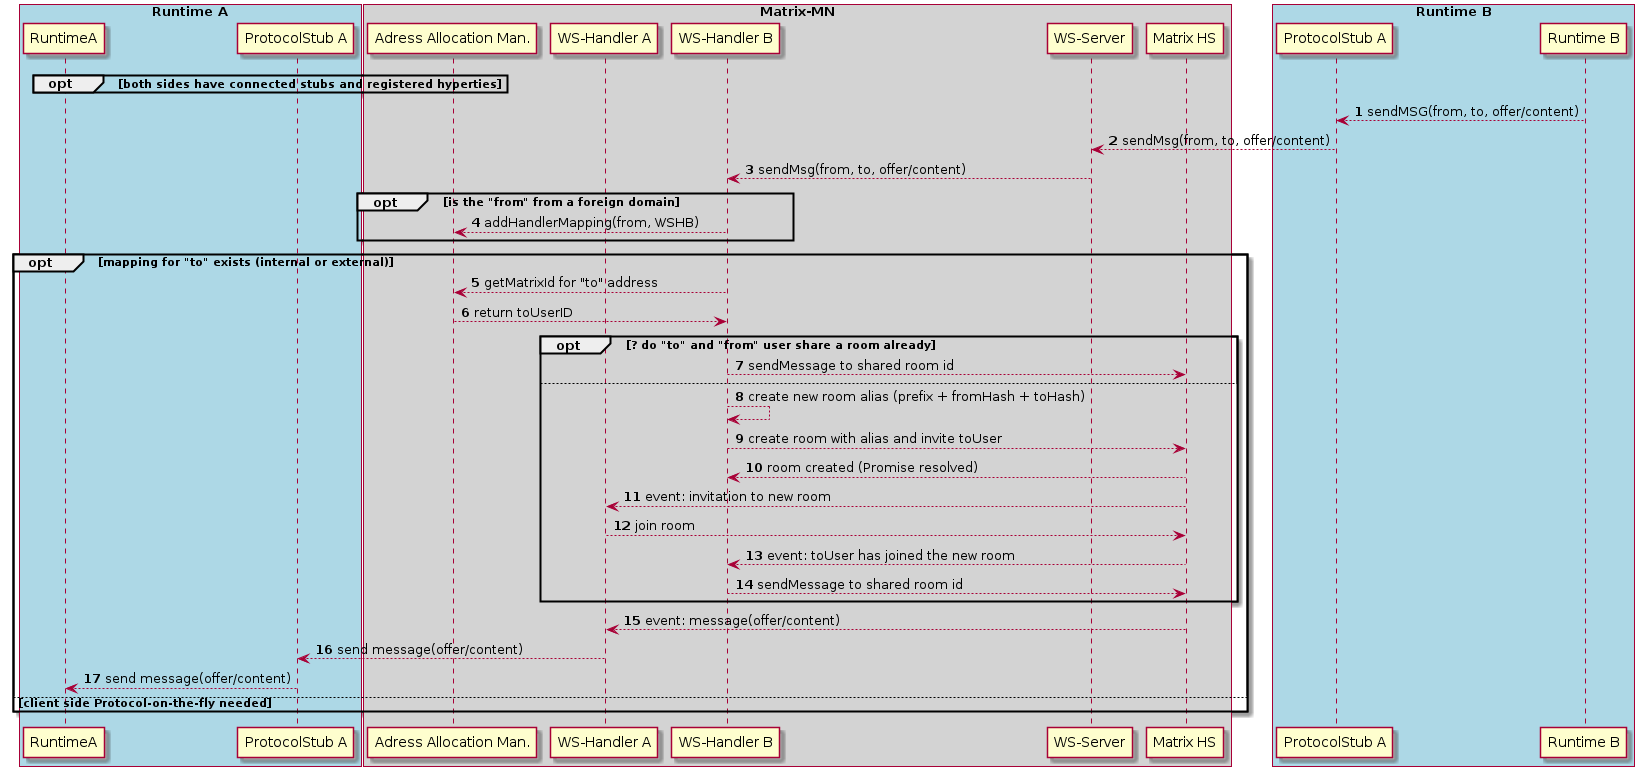
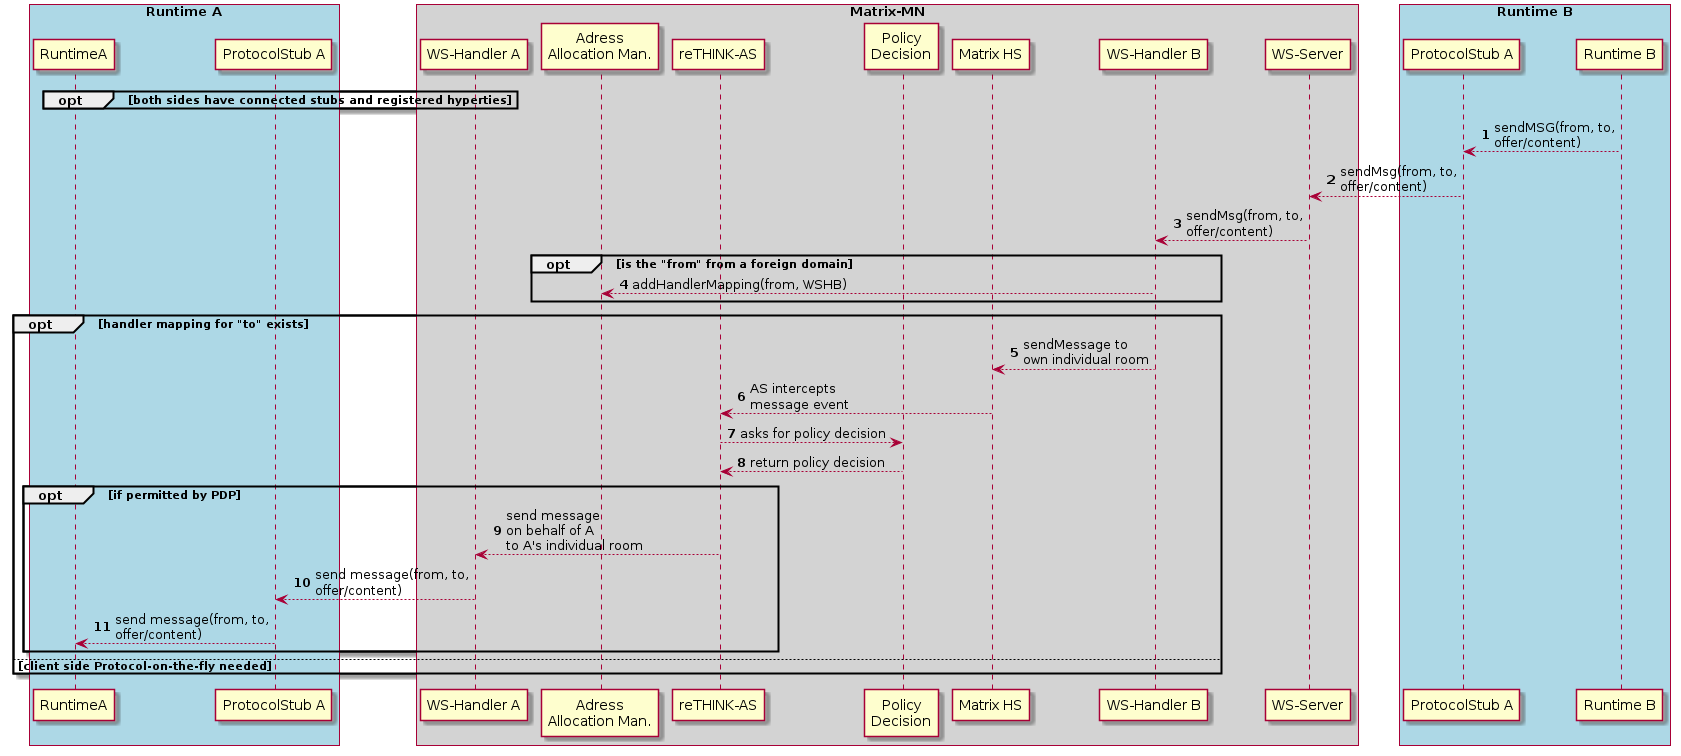
bugfixes: - fixed multiple registration of timeline eventlisteners - fixed failed removal of handler mappings
UML:
- updated diagrams with simplified routing logic

Changed region(s): [[0.0, 0.0, 1.0, 1.0]]

diff --git a/src/mn/bridge/RethinkBridge.js b/src/mn/bridge/RethinkBridge.js
@@ -38,33 +38,40 @@ export default class RethinkBridge {
    * creates a transient UserId from the given hash,
    * @return Promise with created Intent
    **/
-  getInitializedClient(userId) {
+  getInitializedClient(userId, timelineHandler) {
     // console.log("++++ _getClient for userId %s ", userId)
 
     return new Promise((resolve, reject) => {
 
-      let client = this._clients.get(userId);
-      if (client) {
-        // console.log("++++ Client already exists --> returning directly");
-        resolve(client);
-      } else {
-        // create client via clientFactory
-        console.log("++++ creating new Client for %s", userId);
-        let client = this.bridge._clientFactory.getClientAs(userId);
-        this._clients.set(userId, client);
+      try {
+        let client = this._clients.get(userId);
+        if (client) {
+          console.log("++++ Client already exists --> returning directly");
+          resolve(client);
+        } else {
+          // create client via clientFactory
+          console.log("++++ creating new Client for %s", userId);
+          let client = this.bridge._clientFactory.getClientAs(userId);
+          this._clients.set(userId, client);
 
-        client.on('syncComplete', () => {
-          console.log("+++++ client SYNC COMPLETE for %s ", userId);
+          client.on('syncComplete', () => {
+            console.log("+++++ client SYNC COMPLETE for %s ", userId);
 
-          this._setupIndividualRoom(client, userId).then((roomId) => {
-            console.log("got individual room with id %s ", roomId );
-            client.roomId = roomId;
-            resolve(client);
+            this._setupIndividualRoom(client, userId).then((roomId) => {
+              console.log("got individual room with id %s ---> installing timeline event handler ", roomId );
+              client.on('Room.timeline', timelineHandler);
+
+              client.roomId = roomId;
+              resolve(client);
+            });
           });
-        });
 
-        // console.log("+++++ starting Client for user %s", userId);
-        client.startClient();
+          // console.log("+++++ starting Client for user %s", userId);
+          client.startClient(0);
+        }
+      }
+      catch (x) {
+        console.log("ERROR: " + x);
       }
     });
   }
@@ -139,7 +146,7 @@ export default class RethinkBridge {
           if (event.type !== "m.room.message" || !event.content || event.content.sender === this._mnManager.AS_NAME) {
             return;
           }
-          console.log("*************** EVENT ********** ");
+          console.log("*************** BRIDGE EVENT ********** ");
           console.log(">>> " + JSON.stringify(event));
 
           let m = JSON.parse(event.content.body);
@@ -152,7 +159,6 @@ export default class RethinkBridge {
 
             // send a message to this clients individual room
             _this.getInitializedClient(toUser).then( (client) => {
-              console.log("sending message to roomid", client.roomId);
               event.content.sender = this._mnManager.AS_NAME;
               client.sendMessage(client.roomId, event.content);
             });

diff --git a/src/mn/ws/WSHandler.js b/src/mn/ws/WSHandler.js
@@ -32,22 +32,25 @@ export default class WSHandler {
   initialize(bridge) {
 
     return new Promise( (resolve, reject) => {
-      bridge.getInitializedClient(this._userId).then((client) => {
+      bridge.getInitializedClient(this._userId, (e, room) => { this._handleMatrixMessage(e, room)} ).then((client) => {
         // console.log("+++ got client for userId %s with roomId", this._userId, client.roomId);
         this._client = client;
         this._roomId = client.roomId;
-        this._client.on('Room.timeline', (e, room) => { this._handleMatrixMessage(e, room, client)});
         resolve();
       });
     });
   }
 
 
-  _handleMatrixMessage(event, room, client) {
+  _handleMatrixMessage(event, room) {
     let e = event.event;
+    if ( ! this._wsCon ) {
+      console.log("\n Disconnected client received a timelineEvent with id %s --> ignoring ...", event.event.event_id);
+      return;
+    }
     // only interested in events coming from real internal matrix Users
     if (e.type == "m.room.message" && e.user_id.indexOf(this._mnManager.USER_PREFIX) === 0 && e.content.sender === this._mnManager.AS_NAME ) {
-      // console.log("+++++++ client received timelineEvent of type m.room.message: %s", e.user_Id, JSON.stringify(e));
+      console.log("\n+++++++ client received timelineEvent of type m.room.message: %s, event_id: %s", e.user_id, e.event_id, JSON.stringify(e));
       let m = e.content.body;
       try {
         // try to parse
@@ -75,7 +78,7 @@ export default class WSHandler {
    * Performs all necessary actions to clean up this WSHandler instance before it can be destroyed.
    **/
   cleanup() {
-    console.log("cleaning up WSHandler for: " + this.runtimeURL);
+    console.log("\ncleaning up WSHandler for: " + this.runtimeURL);
     // stop the internal Matrix Client and release the intent
     try {
       if ( this._client )
@@ -115,7 +118,7 @@ export default class WSHandler {
   handleStubMessage(m) {
     // TODO: utility to validate retHINK message
 
-    console.log("++++++++++ WSHandler: handling stub msg: %s", JSON.stringify(m));
+    console.log("\n\n++++++++++ WSHandler: handling stub msg: %s", JSON.stringify(m));
 
     if (! m || !m.to || !m.from || !m.type) {
       console.log("+++++++ this is no reTHINK message --> ignoring ...");

diff --git a/src/mn/common/MNManager.js b/src/mn/common/MNManager.js
@@ -57,14 +57,15 @@ export default class MNManager {
    **/
   addHandlerMapping(address, handler) {
     this._handlers.set(address, handler);
-    // console.log("*** added handler mapping for address >%s< --> map.size is now %d ", address, this._handlers.size);
+    console.log("*** added handler mapping for address >%s< --> map.size is now %d ", address, this._handlers.size);
   }
 
   /*
    * delete the handler mapping, if address was de-allocated
    */
   removeHandlerMapping(address) {
-    delete this._handlers.delete(address);
+    this._handlers.delete(address);
+    console.log("*** removed handler mapping for address >%s< --> map.size is now %d ", address, this._handlers.size);
   }
 
   /*
@@ -77,12 +78,9 @@ export default class MNManager {
         matches.push(key);
     }
     // delete all addresses, managed by this handler from the mapping
-    // for (var i=0; i < matches.length; i++)
     matches.forEach((key, i, arr) => {
-      // console.log("** deleting: %s", key);
-      this._handlers.delete(key);
+      this.removeHandlerMapping(key);
     });
-    // console.log("*** deleted %d entries from handler mapping --> map size is now %d", matches.length, this._handlers.size);
   }
 
   /**

diff --git a/src/mn/ws/WSServer.js b/src/mn/ws/WSServer.js
@@ -155,7 +155,7 @@ export default class WSServer {
   }
 
   _handleClose(con) {
-    // console.log("closing connection runtimeURL: " + con.runtimeURL);
+    console.log("closing connection runtimeURL: " + con.runtimeURL);
     var handler = this._handlers.get(con.runtimeURL);
     if (handler) {
       handler.releaseCon();

diff --git a/uml/MatrixMN-route.md b/uml/MatrixMN-route.md
@@ -10,11 +10,13 @@ box "Runtime A" #LightBlue
 end box
 
 box "Matrix-MN" #LightGray
-  participant "Adress Allocation Man." as AAM
   participant "WS-Handler A" as WSHA
+  participant "Adress\nAllocation Man." as AAM
+  participant "reTHINK-AS" as AS
+    participant "Policy\nDecision" as PDP
+    participant "Matrix HS" as HS
   participant "WS-Handler B" as WSHB
   participant "WS-Server" as WSS
-  participant "Matrix HS" as HS
 end box
 
 box "Runtime B" #LightBlue
@@ -25,32 +27,26 @@ end box
 opt both sides have connected stubs and registered hyperties
 end
 
-B --> AStub : sendMSG(from, to, offer/content)
-AStub --> WSS : sendMsg(from, to, offer/content)
-WSS --> WSHB : sendMsg(from, to, offer/content)
+B --> AStub : sendMSG(from, to,\noffer/content)
+AStub --> WSS : sendMsg(from, to,\noffer/content)
+WSS --> WSHB : sendMsg(from, to,\noffer/content)
 
 opt is the "from" from a foreign domain
   WSHB --> AAM: addHandlerMapping(from, WSHB)
 end
 
-opt mapping for "to" exists (internal or external)
-  WSHB --> AAM : getMatrixId for "to" address
-  AAM --> WSHB : return toUserID
-  opt ? do "to" and "from" user share a room already
-    WSHB --> HS : sendMessage to shared room id
-  else
-    WSHB --> WSHB : create new room alias (prefix + fromHash + toHash)
-    WSHB --> HS : create room with alias and invite toUser
-    HS --> WSHB : room created (Promise resolved)
-    HS --> WSHA : event: invitation to new room
-    WSHA --> HS : join room
-    HS --> WSHB : event: toUser has joined the new room
+opt handler mapping for "to" exists
+  WSHB --> HS : sendMessage to\nown individual room
 
-    WSHB --> HS : sendMessage to shared room id
+  HS --> AS : AS intercepts\nmessage event
+  AS --> PDP : asks for policy decision
+  PDP --> AS : return policy decision
+  opt if permitted by PDP
+    AS --> WSHA : send message\non behalf of A\nto A's individual room
+    WSHA --> AAStub : send message(from, to,\noffer/content)
+    AAStub --> A : send message(from, to,\noffer/content)
   end
-  HS --> WSHA : event: message(offer/content)
-  WSHA --> AAStub : send message(offer/content)
-  AAStub --> A : send message(offer/content)
+
 else client side Protocol-on-the-fly needed
 
 end  

diff --git a/uml/MatrixMN-Allocation.md b/uml/MatrixMN-Allocation.md
@@ -23,9 +23,14 @@ end box
 A -> AStub: createStub(RuntimeID)
 A -> AStub: Msg: allocate Address
 
-opt not connected yet
+opt first connect
   AStub -> WSS : connect(RuntimeID)
 
+  WSS --> WSH : create WSH for Stub
+  WSS --> WSH : initialize WSH
+  WSH --> WSH : instantiate and \nsync Matrix Client
+  WSH --> WSH : create individual room
+  WSH --> WSS : initialized
   WSS --> WSS : Assign WS to RuntimeID
   WSS --> WSH : construct WebSocket Handler
   WSS --> AAM : Assign WSH to RuntimeID
@@ -47,5 +52,9 @@ WSS -> WSH: Msg: register hyperty
 
 opt ? isRegisterMsg()
   WSH -> Reg : register Hyperty( )
+  Reg -> WSH : RESPONSE
+  WSH -> AStub : send Response
+  AStub -> A : send Response
 end
+
 @enduml
